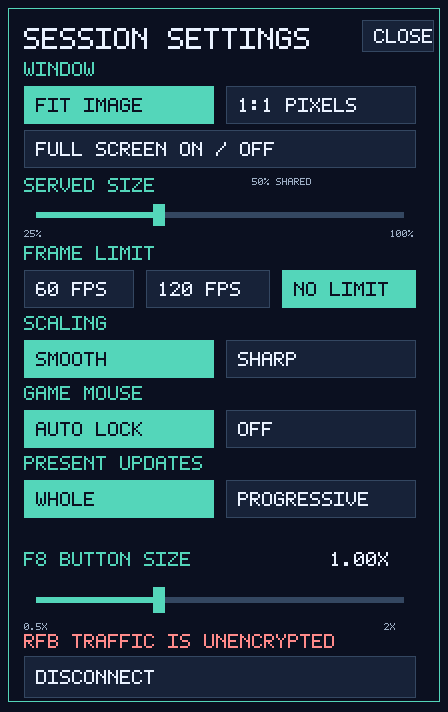
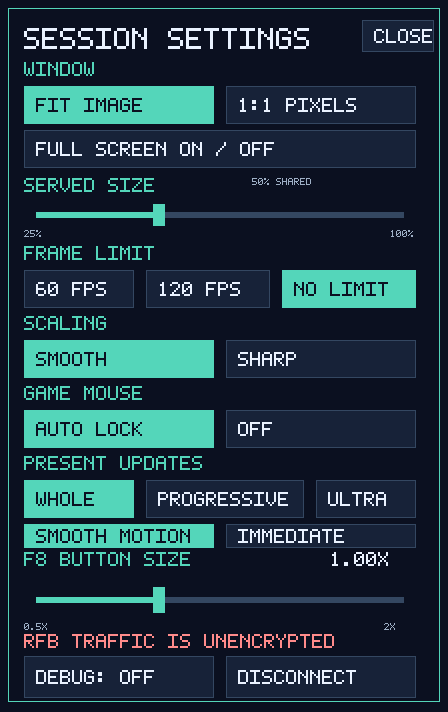
Add compact session titles and a debug toggle
Show desktop name and rendered FPS by default, with detailed performance
counters available through F8 settings.

diff --git a/src/main.rs b/src/main.rs
@@ -1305,7 +1305,16 @@ fn run_session_inner(
         WindowMode::Native => remote,
         WindowMode::Custom => config.custom_size()?,
     };
-    let title = format!("TopVNC — {}", info.name);
+    let mut name = info.name.chars().filter(|c| !c.is_control());
+    let mut short_name: String = name.by_ref().take(24).collect();
+    if name.next().is_some() {
+        short_name.push('…');
+    }
+    let title = if short_name.trim().is_empty() {
+        "TopVNC".to_owned()
+    } else {
+        format!("TopVNC — {short_name}")
+    };
     let window = ui.create_window(
         WindowAttributes::default()
             .with_title(&title)
@@ -1406,8 +1415,11 @@ fn run_session_inner(
     let mut redraw = true;
     let mut last_stats = (Instant::now(), stats.snapshot());
     let mut last_rendered = 0u64;
+    let mut compact_status = title.clone();
+    let mut debug_status = title.clone();
     let mut known_serve_scale = None;
     loop {
+        let mut title_changed = false;
         remote = frames.dimensions();
         let serve_scale = writer.serve_scale();
         if known_serve_scale != serve_scale {
@@ -1635,6 +1647,9 @@ fn run_session_inner(
                                     } else if ui::SCALE_SLIDER.contains(x, y) {
                                         dragging_ui_scale = true;
                                         config.ui_scale = ui::scale_from_slider_x(x);
+                                    } else if ui::LIVE_DEBUG.contains(x, y) {
+                                        config.debug = !config.debug;
+                                        title_changed = true;
                                     } else if ui::DISCONNECT.contains(x, y) {
                                         return Ok(None);
                                     }
@@ -1725,12 +1740,12 @@ fn run_session_inner(
         if lock != locked {
             locked = lock;
             lock_pointer(&window, locked);
+            title_changed = true;
             motion = (0.0, 0.0);
             overlay_changed = true;
             redraw = true;
         }
-        // Live throughput in the title bar shows whether the link or the
-        // encoding limits the frame rate.
+        // Keep the title compact; cache full diagnostics for the debug toggle.
         if last_stats.0.elapsed() >= STATS_INTERVAL {
             let now = (Instant::now(), stats.snapshot());
             let mut status = format!(
@@ -1740,6 +1755,7 @@ fn run_session_inner(
             let submitted = renderer.snapshot()?;
             let render_fps = submitted.frames.saturating_sub(last_rendered) as f64
                 / (now.0 - last_stats.0).as_secs_f64();
+            compact_status = format!("{title} · {render_fps:.0} fps");
             status += &format!(" · render {render_fps:.0} fps");
             last_rendered = submitted.frames;
             if let Some((_, p95)) = submitted.pacing {
@@ -1756,11 +1772,21 @@ fn run_session_inner(
             if config.performance == PerformanceMode::Ultra {
                 status += " · Ultra";
             }
-            if locked {
-                status += " · mouse locked, F8 releases";
-            }
-            window.set_title(&status);
+            debug_status = status;
+            title_changed = true;
             last_stats = now;
+        }
+        if title_changed {
+            let status = if config.debug {
+                &debug_status
+            } else {
+                &compact_status
+            };
+            if locked {
+                window.set_title(&format!("{status} · locked (F8)"));
+            } else {
+                window.set_title(status);
+            }
         }
         let mut options = RenderOptions::new(config, &window);
         options.open = settings_open;

diff --git a/src/ui.rs b/src/ui.rs
@@ -56,6 +56,8 @@ pub struct Config {
     /// RFB JPEG quality level, 0 (smallest) to 9 (best), used with Tight.
     pub jpeg_quality: u8,
     pub ui_scale: f32,
+    /// Show detailed session statistics in the title bar.
+    pub debug: bool,
     /// Lock the pointer and send relative motion when the host asks, as it
     /// does while a game hides the cursor.
     pub relative_mouse: bool,
@@ -81,6 +83,7 @@ impl Default for Config {
             compression: Compression::Tight,
             jpeg_quality: DEFAULT_JPEG_QUALITY,
             ui_scale: 1.0,
+            debug: false,
             relative_mouse: true,
             progressive: false,
             serve: ServeForm::default(),
@@ -1794,10 +1797,16 @@ pub const LIVE_MOTION_IMMEDIATE: Box2 = Box2 {
     w: 190,
     h: 24,
 };
-pub const DISCONNECT: Box2 = Box2 {
+pub const LIVE_DEBUG: Box2 = Box2 {
     x: 24,
     y: 656,
-    w: 392,
+    w: 190,
+    h: 42,
+};
+pub const DISCONNECT: Box2 = Box2 {
+    x: 226,
+    y: 656,
+    w: 190,
     h: 42,
 };
 const SLIDER_LEFT: usize = 36;
@@ -1971,6 +1980,15 @@ pub fn overlay(canvas: &mut Canvas<'_>, config: &Config, open: bool, serve_scale
     canvas.text(24, track_y + 26, "0.5X", MUTED, 1);
     canvas.text(384, track_y + 26, "2X", MUTED, 1);
     canvas.text(24, 634, "RFB TRAFFIC IS UNENCRYPTED", ERROR, 2);
+    canvas.button(
+        LIVE_DEBUG,
+        if config.debug {
+            "DEBUG: ON"
+        } else {
+            "DEBUG: OFF"
+        },
+        config.debug,
+    );
     canvas.button(DISCONNECT, "DISCONNECT", false);
 }
 

diff --git a/src/session_render.rs b/src/session_render.rs
@@ -22,6 +22,7 @@ pub struct RenderOptions {
     pub progressive: bool,
     pub relative_mouse: bool,
     pub ui_scale: f32,
+    pub debug: bool,
     pub open: bool,
     pub locked: bool,
     pub occluded: bool,
@@ -43,6 +44,7 @@ impl RenderOptions {
             progressive: config.progressive,
             relative_mouse: config.relative_mouse,
             ui_scale: config.ui_scale,
+            debug: config.debug,
             open: false,
             locked: false,
             occluded: false,
@@ -62,6 +64,7 @@ impl RenderOptions {
             progressive: self.progressive,
             relative_mouse: self.relative_mouse,
             ui_scale: self.ui_scale,
+            debug: self.debug,
             ..Config::default()
         }
     }

diff --git a/examples/capture_session_ui.rs b/examples/capture_session_ui.rs
@@ -16,7 +16,10 @@ fn main() -> io::Result<()> {
     let mut pixels = vec![ui::BG; width * height];
     ui::overlay(
         &mut ui::Canvas::new(&mut pixels, width, height),
-        &ui::Config::default(),
+        &ui::Config {
+            debug: std::env::args().any(|arg| arg == "--debug"),
+            ..ui::Config::default()
+        },
         true,
         if std::env::args().any(|arg| arg == "--unavailable") {
             None

diff --git a/README.md b/README.md
@@ -145,7 +145,7 @@ When TopVNC runs from a terminal, including `cargo run`, macOS grants both permi
 | Control or setting | Behavior |
 | --- | --- |
 | Keyboard and mouse | Send input to the remote desktop, including the back and forward side buttons. |
-| Mouse lock | While the host hides its cursor (in a game), the pointer locks and every motion turns the camera. The title bar shows *mouse locked*. |
+| Mouse lock | While the host hides its cursor (in a game), the pointer locks and every motion turns the camera. The title bar shows *locked (F8)*. |
 | **F8** or **F8 SETTINGS** | Open the in-session settings panel. This also releases a locked pointer, and the on-screen button hides while the pointer is locked. |
 | Window edges | Drag to resize the viewer. |
 | F8 → Served size | Drag from **25% to 100%** in 1% steps; release to request the size from an updated TopVNC host. |
@@ -157,6 +157,7 @@ When TopVNC runs from a terminal, including `cargo run`, macOS grants both permi
 | Smooth / Sharp | Choose the scaling appearance. |
 | Game mouse: Auto lock / Off | **Off** never locks the pointer: the viewer stops offering relative motion and the server sends absolute positions. |
 | F8 button size | Adjust the on-screen settings button from 0.5× to 2.0×. |
+| F8 → Debug | Toggle **DEBUG: OFF/ON**. Off by default: the title shows a shortened desktop name and rendered FPS. On shows the detailed performance counters. This does not enable input logging. |
 | Disconnect | Return to the connection form. |
 
 ![TopVNC F8 session settings showing the served-size slider at 50%](docs/images/topvnc-session-settings.png)
@@ -214,7 +215,7 @@ For playable results:
   | --- | --- | --- |
   | 3024×1964 (full) | 26.3 | 55.6 ms |
   | 1512×982 (half) | 60.3 | 13.6 ms |
-- **Read the title bar.** During a session, the viewer's title shows:
+- **Enable F8 → DEBUG: ON for diagnostics.** The title normally shows only the desktop name (shortened to 24 characters plus an ellipsis when needed) and rendered FPS, with a short hint while the mouse is locked. Debug mode adds:
   - decoded FPS, KB per frame, and Mbit/s;
   - the encoding the server sends, and `push` when the server pushes frames;
   - rendered FPS, p95 frame-submission interval, and the selected GPU presentation mode;

diff --git a/specs/012-compact-title/spec.md b/specs/012-compact-title/spec.md
@@ -1,0 +1,29 @@
+# Compact session title and debug toggle
+
+## Scope
+
+Shorten the viewer title and make detailed performance diagnostics optional
+through a button in the existing F8 settings panel.
+
+## Acceptance criteria
+
+- Debug is off on launch. The normal session title shows TopVNC, the desktop
+  name capped at 24 characters plus an ellipsis, and rendered FPS.
+- Preserve a compact `locked (F8)` hint whenever the pointer is locked.
+- F8 offers a visibly selected `DEBUG: ON` / `DEBUG: OFF` button. Switching it
+  immediately shows or hides the latest sampled diagnostics without reconnecting.
+- Debug shows the existing decode/render rates, bandwidth, encoding, push state,
+  presentation timings/mode, superseded snapshots, and Ultra indicator.
+- Debug affects display only; input logging stays an explicit CLI option.
+- Keep the security warning visible and all controls within the existing panel.
+
+## Validation
+
+On Windows, formatting, workspace Clippy, and the release build pass. Inspected
+renderer captures with debug off/on: both buttons fit and the transport warning
+remains visible. Updated the README's panel captures.
+
+The workspace test run reports a timeout in the unchanged library test
+`clients_without_desktop_size_are_disconnected_on_resize`, also reproduced alone.
+With that test filtered out, 159 tests pass and three remain intentionally ignored.
+Live GUI interaction and macOS/Linux builds were not validated here.
